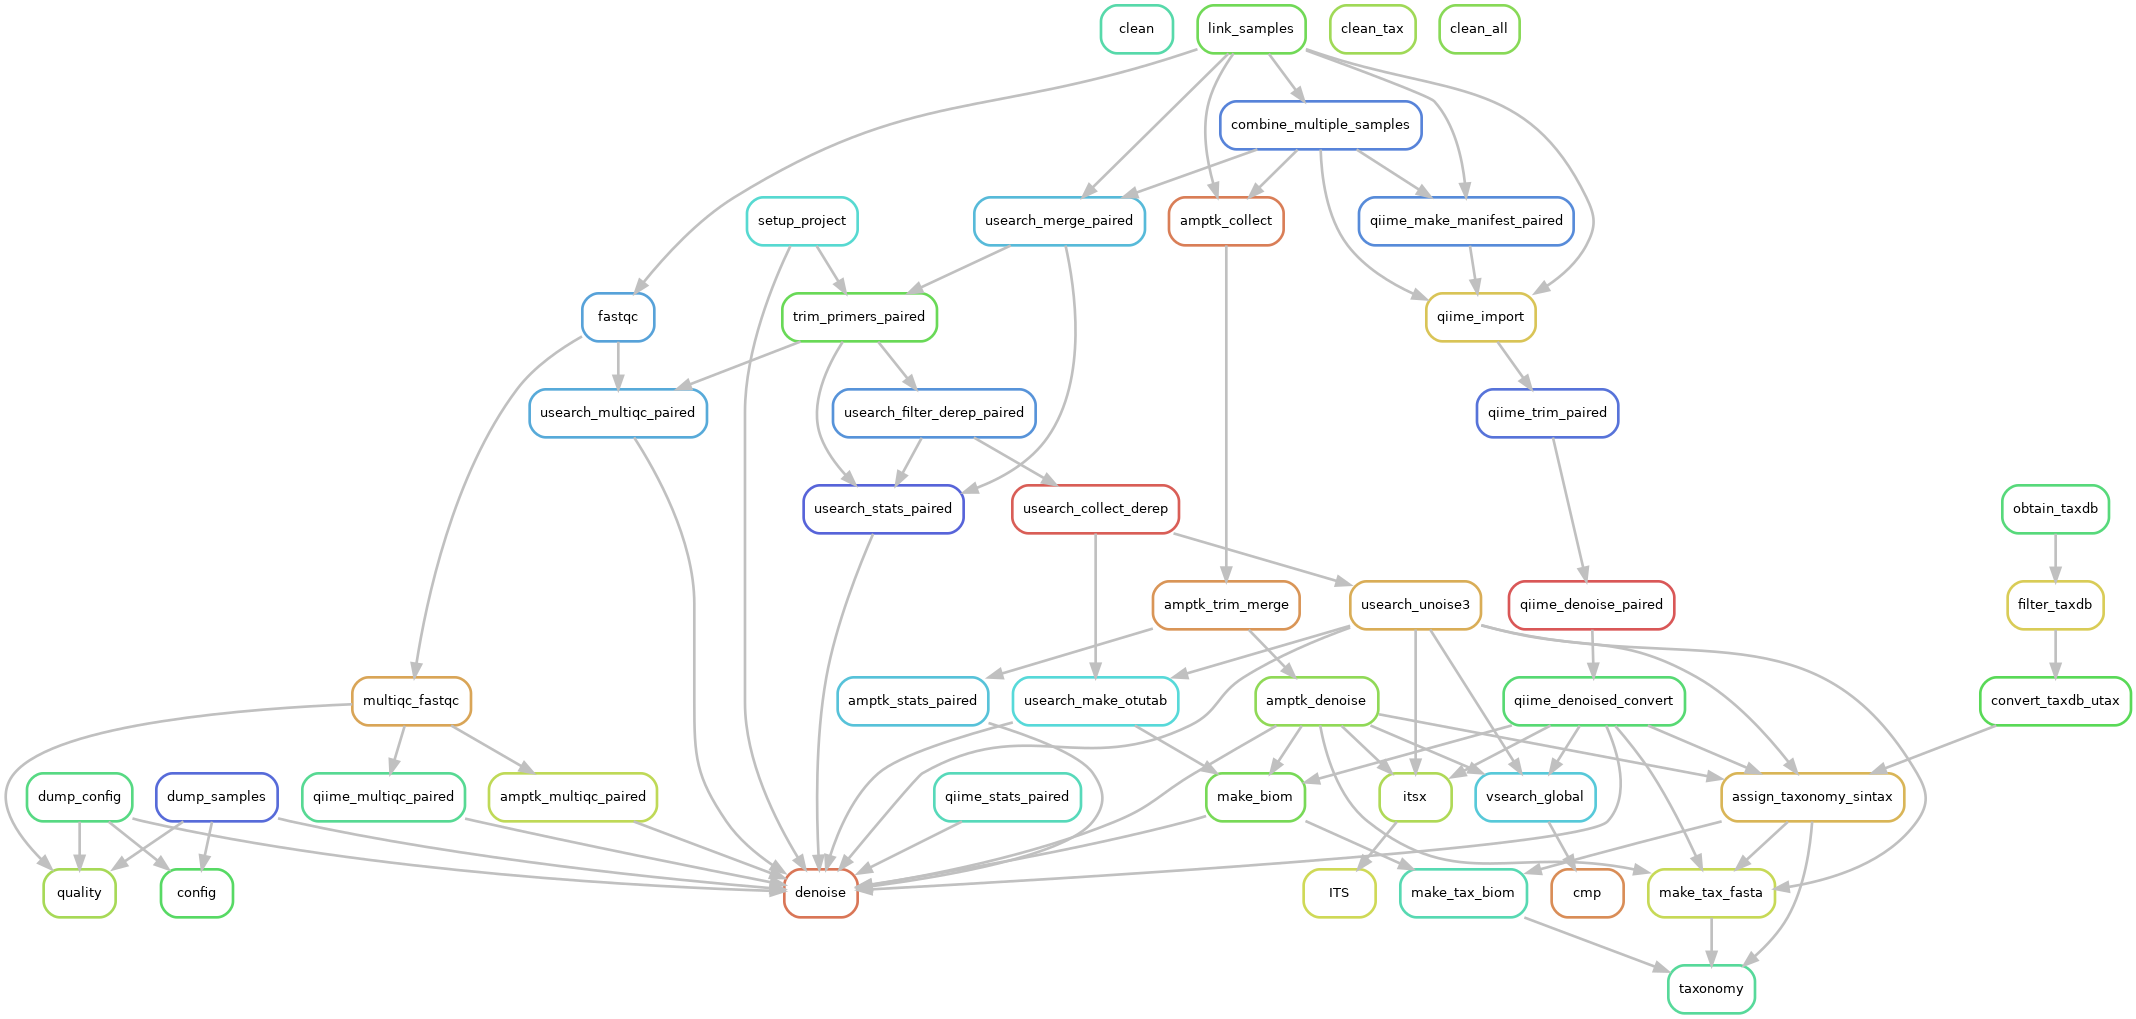
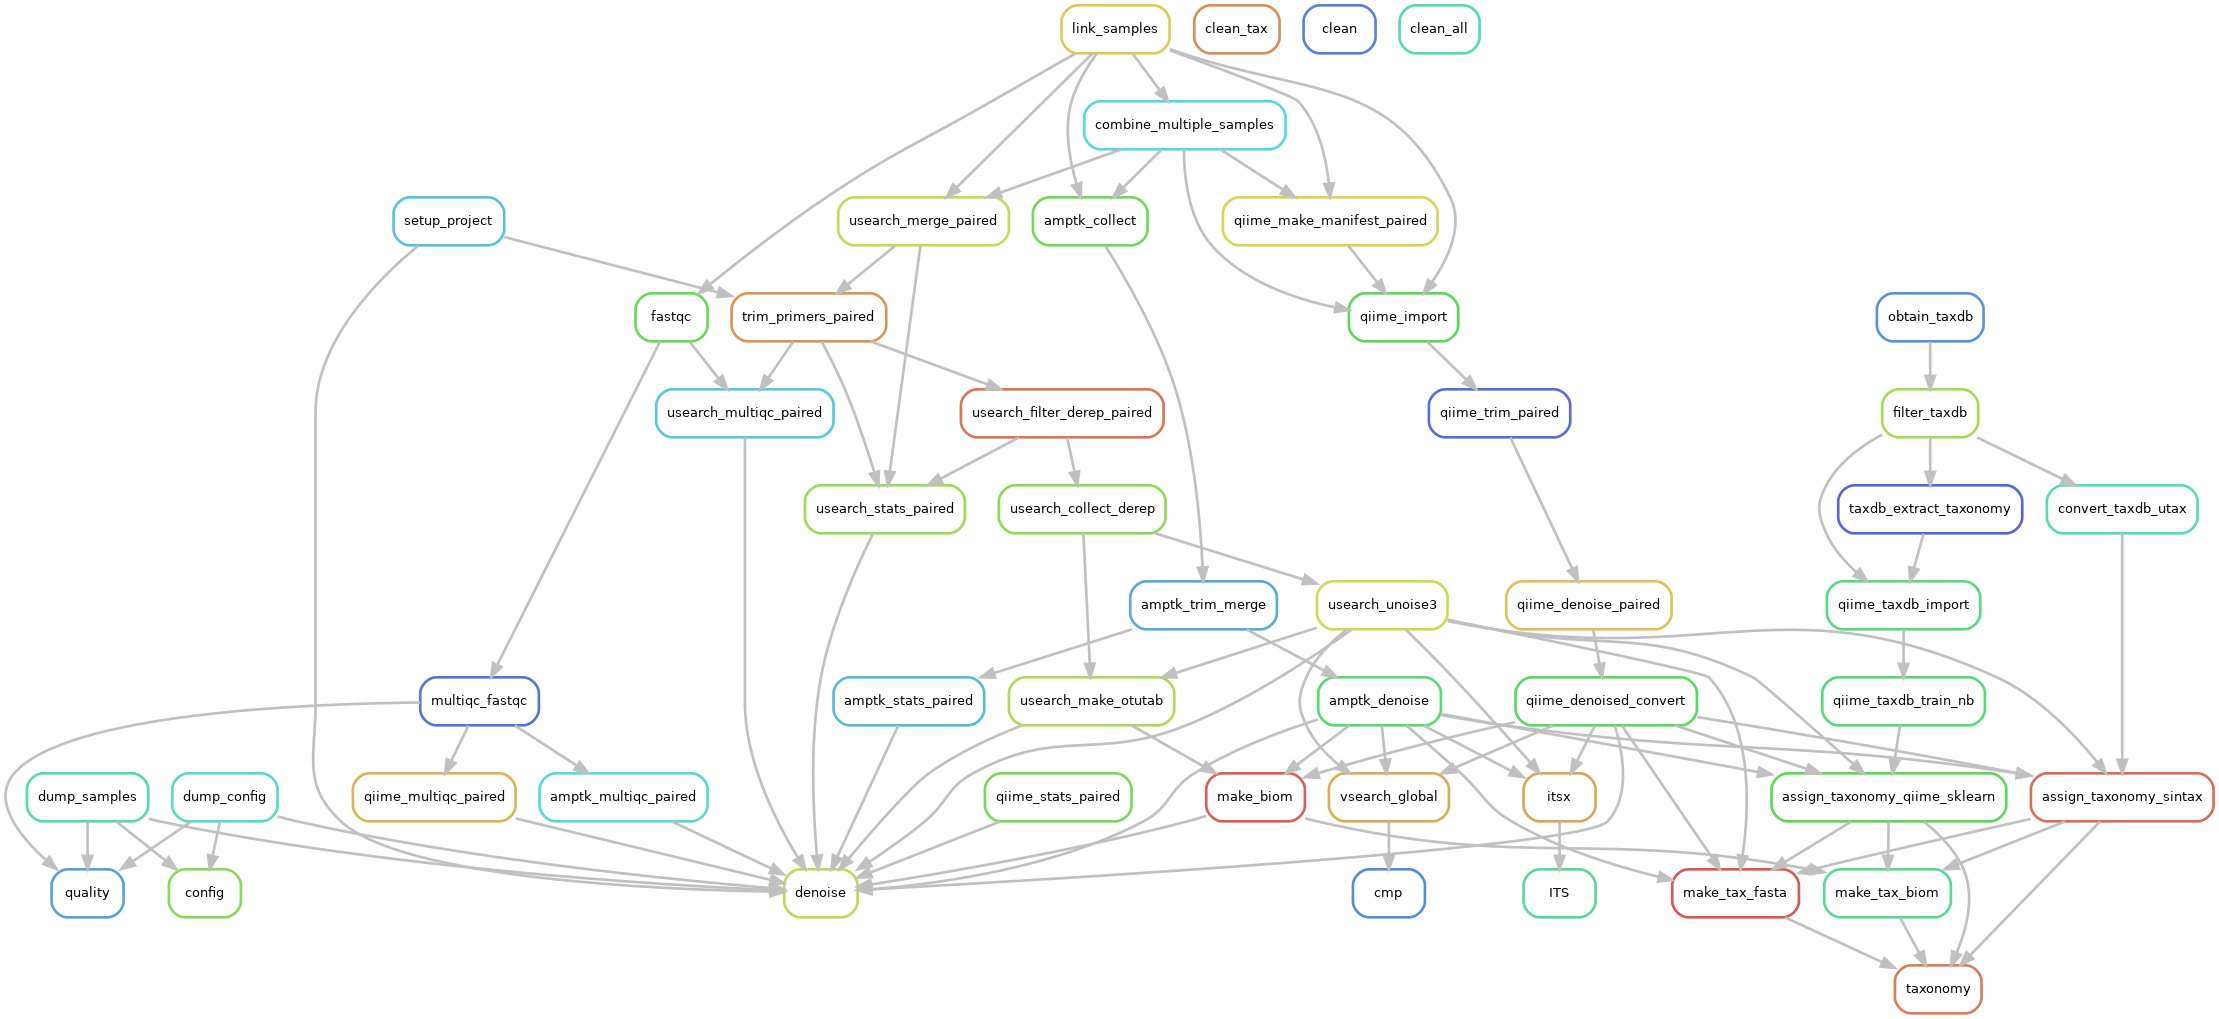
Improve documentation (README, config/config.yaml)
also:
* add mitochondrial markers to taxonomy_dbs in config.yaml
* update rule graph to include QIIME sklearn taxonomy recognition

diff --git a/README.md b/README.md
@@ -1,14 +1,23 @@
 # Analysis of environmental diversity using amplicon sequencing
 
-This pipeline system uses [Snakemake](https://snakemake.github.io/) to create and integrate several different amplicon pipelines. The results are returned in a common directory structure and common file formats and may serve as input for R-based analyses. The configuration should be easy, with a flexible system for specifying the input files and an automatic recognition of sample names and paired-end vs. single-end sequencing strategies.
+This pipeline system uses [Snakemake](https://snakemake.github.io/) to create and integrate different amplicon pipelines. Their results can be easily compared due to a common file structure of the output directories, which may serve as input e.g. for R-based analyses.
 
-Currently, only paired-end Illumina data can be analyzed, and the analyses are tailored for fungal amplicon (taxonomy assignments using UNITE).
+*Note:* The repository was created to fit the needs of the author and is tailored for the analysis of paired-end Illumina data from fungi or arthropods, but it may be extended further (see [below](#still-not-finished)).
 
-Pipelines:
+*Pipelines*
 
 - [USEARCH](https://www.drive5.com/usearch/manual)/[VSEARCH](https://github.com/torognes/vsearch)-based amplicon pipeline using UNOISE3 for obtaining ASVs (implemented here from scratch with Snakemake)
-- [QIIME2](https://qiime2.org) (DADA2)
-- The [Amptk pipeline](https://github.com/nextgenusfs/amptk) (UNOISE3 and DADA2 denoising strategies)
+- [QIIME2](https://qiime2.org) (DADA2 denoising)
+- [Amptk](https://github.com/nextgenusfs/amptk) (UNOISE3 and DADA2)
+- (more may follow)
+
+*Features*
+
+- Running different pipelines or variations of the same pipeline using different sets of parameters, which are defined in a [`configuration file`](config/config.yaml).
+- Simultaneous processing of amplicons generated using different primer sets
+- Multiple taxonomic assignment methods can be applied to the denoised dataset using marker-specific reference databases; currently implemented: [UNITE](https://unite.ut.ee) for Eukaryote ITS and [Midori](http://www.reference-midori.info) for mitochondrial markers (more may follow)
+
+The pipeline is tested using amplicon data from a fungal mock community ([`test` directory](test/)) and the results of the different pipelines can be compared [using a script](#comparison-of-denoisingclustering-pipelines).
 
 The current rule graph:
 
@@ -35,33 +44,15 @@ An exception is *Usearch*. It can be [obtained here](https://www.drive5.com/usea
 
 ## Configuring
 
-The easiest approach is to copy the contents of the [config](config/) directory into the future analysis directory and then modify the files according to your needs. `config.yaml` contains all settings, while the taxonomic databases can be configured in `taxonomy.yaml`.
-
-Important options:
-- `input`: both Bash glob patterns and/or input directories (optional recursive search) can be specified. Matching files will be linked in an `input` directory, grouped into single/paired-end sequencing strategies. If the same filename is encountered twice, they are currently merged together. A list of input samples is placed in `results/samples.yaml`
-- `pipelines`: An unlimited list of independent pipelines with different clustering (denoising) methods can be specified. In addition, every entry can modify the default settings, which are also in `config.yaml` below the pipelines definition. To check, which settings were used by a pipeline see `results/<pipeline>/config.yaml` after starting the execution (or `snakemake -j1 config`).
-
+The easiest is to copy the contents of the [config](config/) directory into the future analysis directory and then modify the files according to your needs. [`config.yaml`](config/config.yaml) contains all settings, while the taxonomic databases can be configured in [`taxonomy.yaml`](config/taxonomy.yaml). Please refer to the comments in these config files.
 
 ## Running
 
-As visible in the rulegraph above, there are a few Snakemake target rules, which can be run independently (even though they also partly depend on each other):
-
-- `config`: Allows checking the configuration by creating the files `results/samples.yaml` and `<pipeline>/config.yaml`. The samples file (`samples.yaml`) lists the sample names and the corresponding input files. This is useful to check if the `input` settings in `config/config.yaml` are specified correctly. The `config.yaml` files contain the final configuration of each pipeline used internally (slightly modified, structure may change with later versions). This is especially useful to check, whether additional settings specified in the `pipelines` definition in `config/config.yaml` correctly override the default settings.
-- `quality`: Runs [FastQC](https://www.bioinformatics.babraham.ac.uk/projects/fastqc) and [MultiQC](https://multiqc.info) (output in `results/_validation`). This can be done in a first step before deciding on the quality filtering/trimming options in `config/config.yaml`.
-- `denoise`: Does the denoising (clustering) for all pipelines, as specified in `config/config.yaml`. The results are normally found in `results/<pipeline>/data`, unless the input files contain both paired and single-end (different "sequencing strategies"), or multiple primer combinations are specified. In this case, the output path is `results/<pipeline>/pipeline_.../<primers>/<strategy>`. The denoised/clustered sequences are in `denoised.fasta`, the OTU table is stored in flat text format (`denoised_otutab.txt.gz`) and BIOM (`denoised.biom`). In addition, a sample report with read numbers retained in each step is placed in `results/<pipeline>/pipeline_.../_validation`, along with another MultiQC report including Cutadapt statistics (currently only UNOISE pipeline).
-- `taxonomy`: Assigns taxonomic labels to denoised/clustered sequences. Several methods can be specified in `config/config.yaml`. The output files are in the `taxonomy` subdirectory of the directory containing the FASTA and OTU tables. The file names are as follows `<ref. database>-<assignment method>-<assignment name>.txt.gz`. In addition, a GZIP-compressed BIOM file is created.
-- `cmp`: Runs sequence comparisons with files listed in `config/config.yaml` (`compare` key). The comparisons are done with VSEARCH, using the denoised FASTA as query and the given sequence files as database. The result is a tab-delimited mapping file (with corresponding name) with three columns: query (ASV/OTU), target (from custom sequence database), percent identity (edit distance excluding terminal gaps in the alignment, see also --iddef option). FASTA files of both the non-matched query and database sequences are also created, as well as a BAM file, which allows viewing/extracting the alignments of query and target sequences.
-- `ITS`: Runs [ITSx](https://microbiology.se/software/itsx) to recognize rDNA domains (or parts of them) and locate the internal transcribed spacer (ITS) regions. The information from the positions file (`ITSx/out.positions.txt`) is used to distinguish "true" ITS sequences from possible unspecific amplification (see also `R/read_amplicon.R` file).
-
-Finally, there are commands for cleaning up:
-
-- `clean`: Removes the working directories `input` and `processing`. The `results` and `logs` directories are retained.
-- `clean_all`: Cleans up everything (including the pipeline output), except for taxonomic reference databases. This is only used to completely remove all output from a target directory.
-- `clean_tax`: Removes the `refdb` directory
+As visible in the rulegraph above, there are a few Snakemake target rules, which can be run independently (even though they also partly depend on each other). A complete list of commands is [found here](Commands.md).
 
 ### On a local computer
 
-The following command runs the test pipeline (FASTQ files from sequencing fungal mock comunities in the [`test` directory](test/) directory) on a local computer.
+The following command runs the test pipeline (FASTQ files from sequencing fungal mock comunities in the [`test` directory](test/)) on a local computer.
 
 ```sh
 conda activate snakemake
@@ -70,9 +61,9 @@ snakemake -j 6 --use-conda --conda-prefix ~/conda -d test denoise cmp taxonomy I
 
 Note that the `~/conda` directory is used for the installation of all additional necessary software. This allows reusing the installed software across analyzes of different datasets.
 
-### On computing cluster
+### On a computer cluster
 
-A complete denoising run of a dataset on a HPCC may look like this (with SLURM using [this profile](https://github.com/Snakemake-Profiles/slurm#quickstart)):
+A complete denoising run of a dataset on a HPCC may look like this (using SLURM with [this profile](https://github.com/Snakemake-Profiles/slurm#quickstart)):
 
 ```sh
 outdir=~/path/to/analysis  # must contain a config directory
@@ -87,7 +78,7 @@ snakemake -j 10 -c20 \
 ```
 
 
-## Using in R
+## Analyzing in R
 
 The R source file [`R/read_amplicon.R`](R/read_amplicon.R) provides code for reading all data from a results directory. See also the small [example analysis](test/R_example/example.md).
 
@@ -99,12 +90,12 @@ There is a separate bash script `scripts/compare_results.sh`, which creates an E
 
 ## Still not finished...
 
-This repository was created to fit the needs of the author, but lots of things could still be done:
+Lots of things could still be done. A list of possible next steps includes:
 
 - Enable single-end analyses and other platforms than Illumina
 - Integrate more pipelines / clustering methods
-- More taxonomy databases
+- Integrate more taxonomy databases
 - Better handling of configuration defaults
-- Better documentation of configuration options
+- Better documentation of configuration options, clear error messages in case of problems with the config files.
 - Testing deployment on different systems
 - ...

diff --git a/Commands.md b/Commands.md
@@ -1,0 +1,22 @@
+# Target rules ("commands")
+
+## Rule graph
+
+![rule graph](rulegraph.png)
+
+## List of rules
+
+The following rules
+
+- **config**: Allows checking the configuration by creating the files `results/samples.yaml` and `<pipeline>/config.yaml`. `samples.yaml` lists the sample names and the corresponding input files ([example](test/results/samples.yaml)). This is useful to check if the `input` settings in `config/config.yaml` are specified correctly. The `config.yaml` files contain the final configuration of each pipeline used internally (slightly modified, structure may change with later versions) ([example](test/results/unoise/config.yaml)). This is especially useful to check, whether additional settings specified in the `pipelines` definition in `config/config.yaml` correctly override the default settings.
+- **quality**: Runs [FastQC](https://www.bioinformatics.babraham.ac.uk/projects/fastqc) and [MultiQC](https://multiqc.info) (output in `results/_validation`). This can be done in a first step before deciding on the quality filtering/trimming options in `config/config.yaml`.
+- **denoise**: Does the denoising (clustering) for all pipelines, as specified in `config/config.yaml`. The results are normally found in `results/<pipeline>/data`, unless the input files contain both paired and single-end (different "sequencing strategies"), or multiple primer combinations are specified. In this case, the output path is `results/<pipeline>/pipeline_.../<primers>/<strategy>`. The denoised/clustered sequences are in `denoised.fasta`, the OTU table is stored in flat text format (`denoised_otutab.txt.gz`) and BIOM (`denoised.biom`). In addition, a sample report with read numbers retained in each step is placed in `results/<pipeline>/pipeline_.../_validation`, along with another MultiQC report including Cutadapt statistics (currently only UNOISE pipeline).
+- **taxonomy**: Assigns taxonomic labels to denoised/clustered sequences. Several methods can be specified in `config/config.yaml`. The output files are in the `taxonomy` subdirectory of the directory containing the FASTA and OTU tables. The file names are as follows `<ref. database>-<assignment method>-<assignment name>.txt.gz`. In addition, a GZIP-compressed BIOM file is created.
+- **cmp**: Runs sequence comparisons with files listed in `config/config.yaml` (`compare` key). The comparisons are done with VSEARCH, using the denoised FASTA as query and the given sequence files as database. The result is a tab-delimited mapping file (with corresponding name) with three columns: query (ASV/OTU), target (from custom sequence database), percent identity (edit distance excluding terminal gaps in the alignment, see also --iddef option). FASTA files of both the non-matched query and database sequences are also created, as well as a BAM file, which allows viewing/extracting the alignments of query and target sequences.
+- **ITS**: Runs [ITSx](https://microbiology.se/software/itsx) to recognize rDNA domains (or parts of them) and locate the internal transcribed spacer (ITS) regions. The information from the positions file (`ITSx/out.positions.txt`) is used to distinguish "true" ITS sequences from possible unspecific amplification (see also [example analysis](test/R_example/example.md#read-data)).
+
+Finally, there are commands for cleaning up:
+
+- **clean**: Removes the working directories `input` and `processing`. The `results` and `logs` directories are retained.
+- **clean_all**: Cleans up everything (including the pipeline output), except for taxonomic reference databases. This is only used to completely remove all output from a target directory.
+- **clean_tax**: Removes the `refdb` directory
